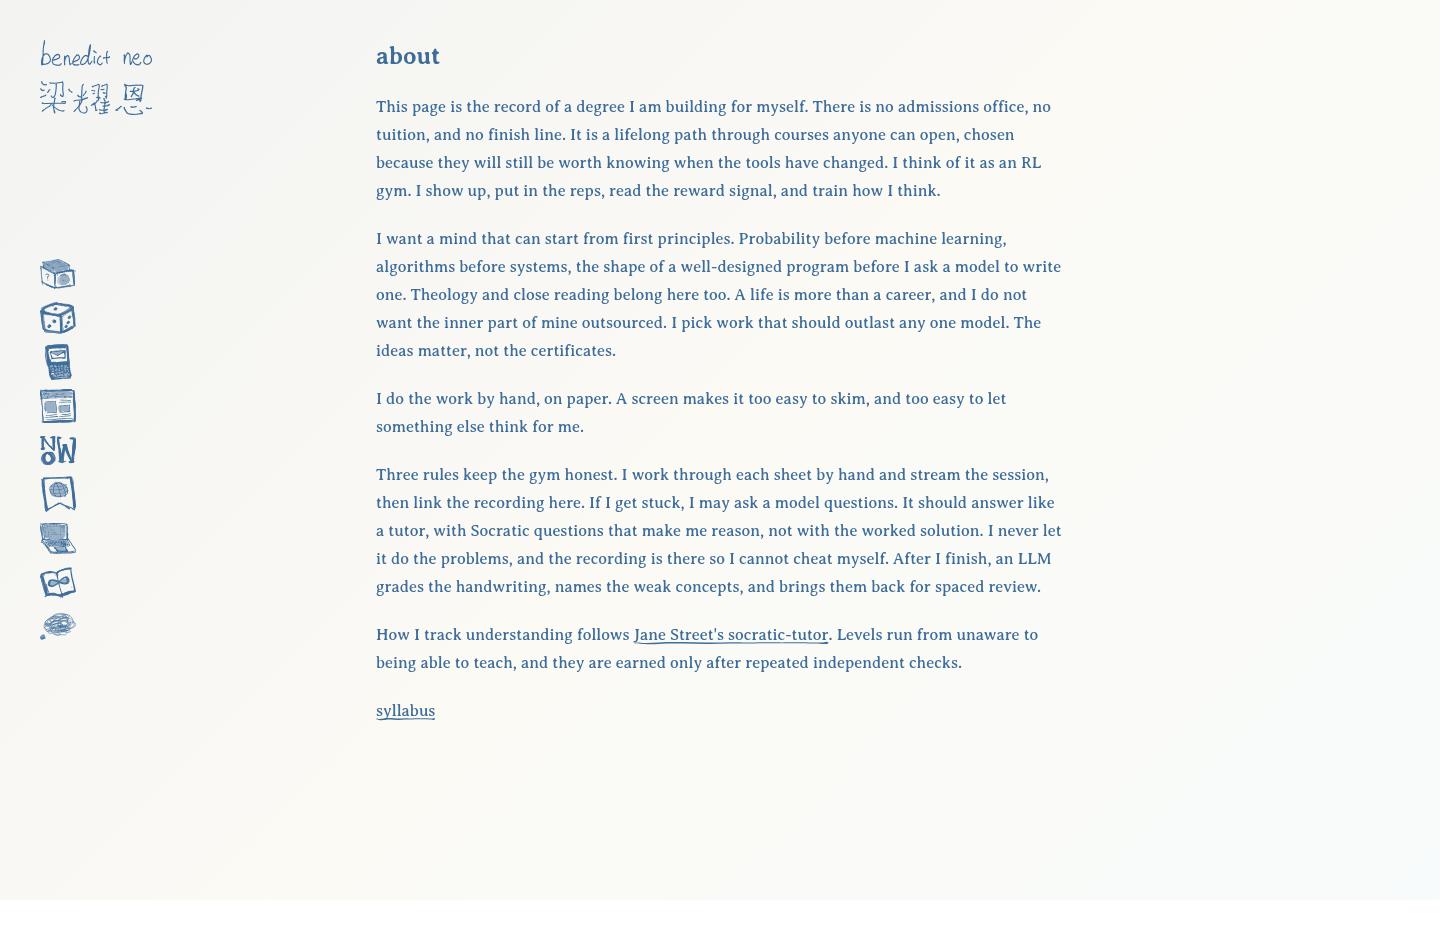
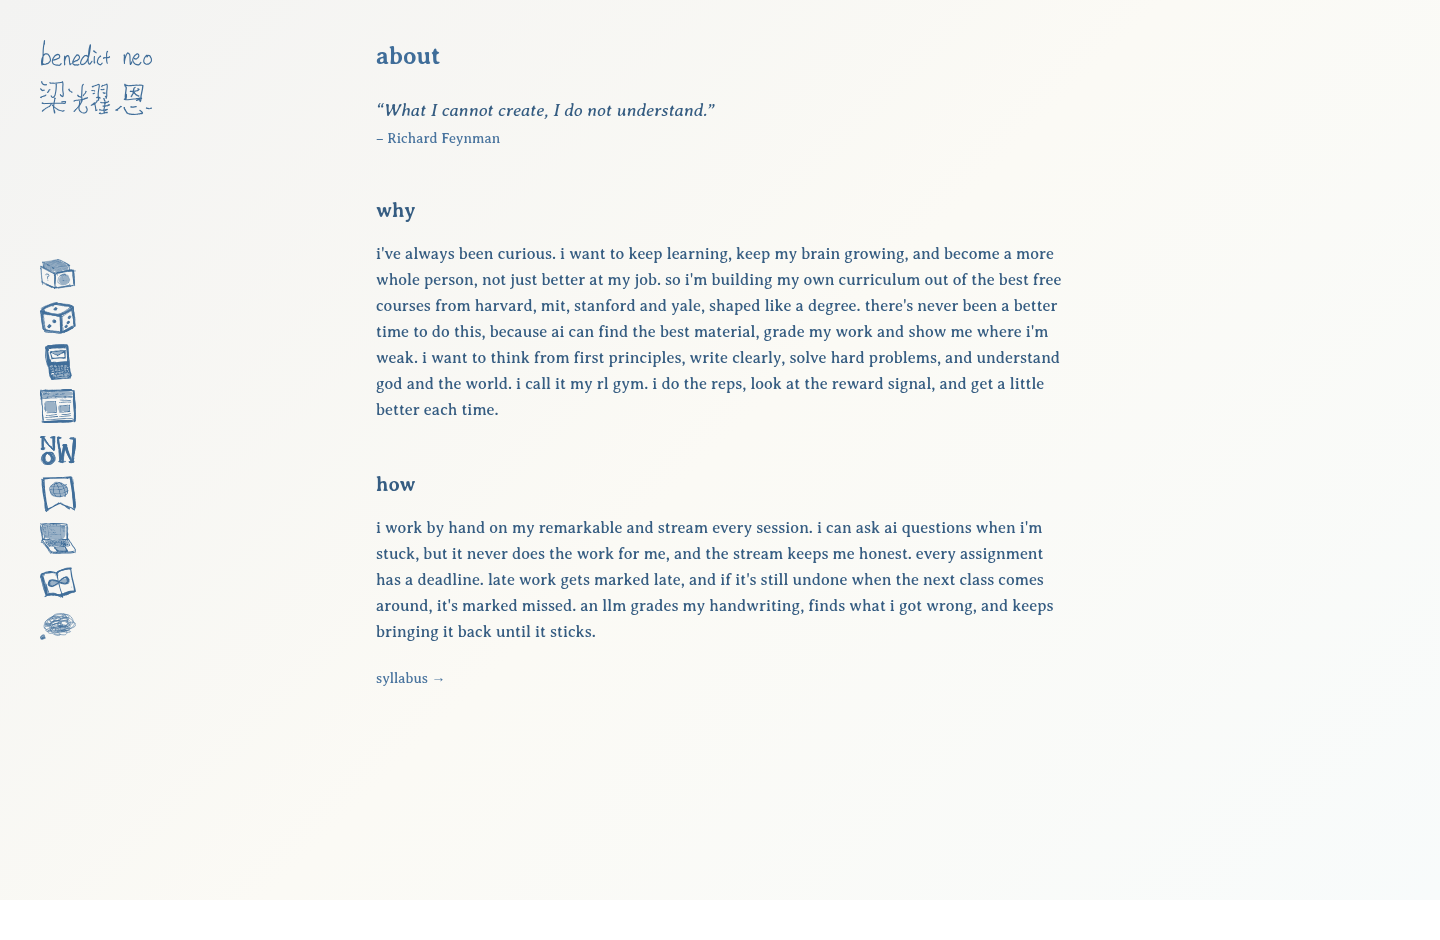
syllabus/about: approved why and how essay, Feynman epigraph [preview]
Replaces the old essay and the Jane Street link with the approved text,
set in the same section frame as /syllabus. Refreshes the PR screenshots.

Changed region(s): [[0.25, 0.0926, 0.75, 0.4628], [0.25, 0.4936, 0.75, 0.7713]]

diff --git a/app/(sidebar)/syllabus/about/page.tsx b/app/(sidebar)/syllabus/about/page.tsx
@@ -1,58 +1,64 @@
 import type { Metadata } from "next";
-import Link from "next/link";
 import { pageMetadata } from "@/utils/pageMetadata";
 import { SYLLABUS_PATH } from "@/config/syllabus";
+import { Section } from "@/components/layout/Section";
 
 export const metadata: Metadata = pageMetadata({
   title: "about this syllabus",
   description:
-    "a self-directed open-course degree, and how I train how I think",
+    "a curriculum of the best free courses, shaped like a degree: my rl gym",
   path: `${SYLLABUS_PATH}/about`,
 });
 
+const body = "m-0 text-base leading-relaxed text-primary";
+
 export default function SyllabusAboutPage() {
   return (
-    <article className="prose">
-      <h1>about</h1>
-      <p>
-        This page is the record of a degree I am building for myself. There is
-        no admissions office, no tuition, and no finish line. It is a lifelong
-        path through courses anyone can open, chosen because they will still be
-        worth knowing when the tools have changed. I think of it as an RL gym. I
-        show up, put in the reps, read the reward signal, and train how I think.
-      </p>
-      <p>
-        I want a mind that can start from first principles. Probability before
-        machine learning, algorithms before systems, the shape of a
-        well-designed program before I ask a model to write one. Theology and
-        close reading belong here too. A life is more than a career, and I do
-        not want the inner part of mine outsourced. I pick work that should
-        outlast any one model. The ideas matter, not the certificates.
-      </p>
-      <p>
-        I do the work by hand, on paper. A screen makes it too easy to skim, and
-        too easy to let something else think for me.
-      </p>
-      <p>
-        Three rules keep the gym honest. I work through each sheet by hand and
-        stream the session, then link the recording here. If I get stuck, I may
-        ask a model questions. It should answer like a tutor, with Socratic
-        questions that make me reason, not with the worked solution. I never let
-        it do the problems, and the recording is there so I cannot cheat myself.
-        After I finish, an LLM grades the handwriting, names the weak concepts,
-        and brings them back for spaced review.
-      </p>
-      <p>
-        How I track understanding follows{" "}
-        <a href="https://github.com/janestreet/agent_skills/tree/master/socratic-tutor">
-          Jane Street&apos;s socratic-tutor
-        </a>
-        . Levels run from unaware to being able to teach, and they are earned
-        only after repeated independent checks.
-      </p>
-      <p>
-        <Link href={SYLLABUS_PATH}>syllabus</Link>
-      </p>
-    </article>
+    <>
+      <article className="prose">
+        <h1>about</h1>
+      </article>
+      <figure className="m-0 mt-6">
+        <blockquote className="m-0 text-lg italic leading-relaxed text-primary">
+          &ldquo;What I cannot create, I do not understand.&rdquo;
+        </blockquote>
+        <figcaption className="mt-1 text-sm text-muted">
+          – Richard Feynman
+        </figcaption>
+      </figure>
+
+      <div className="mt-12 space-y-12">
+        <Section id="why" title="why">
+          <p className={body}>
+            i&apos;ve always been curious. i want to keep learning, keep my
+            brain growing, and become a more whole person, not just better at my
+            job. so i&apos;m building my own curriculum out of the best free
+            courses from harvard, mit, stanford and yale, shaped like a degree.
+            there&apos;s never been a better time to do this, because ai can
+            find the best material, grade my work and show me where i&apos;m
+            weak. i want to think from first principles, write clearly, solve
+            hard problems, and understand god and the world. i call it my rl
+            gym. i do the reps, look at the reward signal, and get a little
+            better each time.
+          </p>
+        </Section>
+
+        <Section
+          id="how"
+          title="how"
+          more={[{ href: SYLLABUS_PATH, label: "syllabus" }]}
+        >
+          <p className={body}>
+            i work by hand on my remarkable and stream every session. i can ask
+            ai questions when i&apos;m stuck, but it never does the work for me,
+            and the stream keeps me honest. every assignment has a deadline.
+            late work gets marked late, and if it&apos;s still undone when the
+            next class comes around, it&apos;s marked missed. an llm grades my
+            handwriting, finds what i got wrong, and keeps bringing it back
+            until it sticks.
+          </p>
+        </Section>
+      </div>
+    </>
   );
 }
